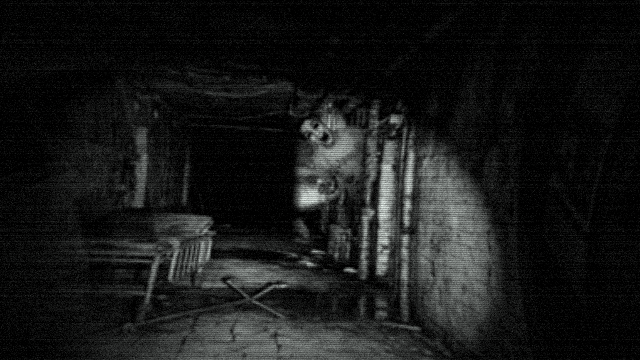
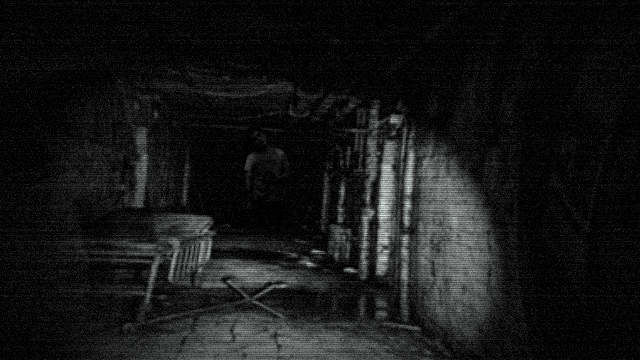
Sağ tık ve görsel sürükleme kapalı; küçük hatalar (ITS ME Pasta'yı gizlemiyor, karanlıkta ışık sesi yok, Arda kapı hatası); kamera görselleri yeniden: corr_pasta, autopsy_pasta

Changed region(s): [[0.375, 0.275, 0.5625, 0.6722], [0.5312, 0.6111, 0.5625, 0.6417]]

diff --git a/game.js b/game.js
@@ -334,11 +334,11 @@ function render() {
   else if (g.pasta.stage === 2) corr = 'img/corr/pasta2.png';
   else if (g.pasta.stage === 1) corr = 'img/corr/pasta1.png';
   if (g.sultan.phase === 'here') corr = 'img/corr/sultan.png';
-  if (itsmeCorrUntil > g.t) corr = 'img/itsme_photo.png';
+  if (itsmeCorrUntil > g.t && g.pasta.stage === 0) corr = 'img/itsme_photo.png'; // Pasta gelirken gizlemesin
   setSrc($('corrImg'), corr);
   setSrc($('dwImg'), g.avukat.at ? 'img/doorway/avukat.png' : 'img/doorway/empty.png');
   setSrc($('ventImg'), g.sahil.stage === 3 ? 'img/vent/sahil.png' : 'img/vent/empty.png');
-  const corrVar = g.sultan.phase === 'here' ? 'corr_sultan' : !d.flash ? null : itsmeCorrUntil > g.t ? 'corr_itsme' : g.pasta.stage ? 'corr_pasta' + g.pasta.stage : 'corr_lit';
+  const corrVar = g.sultan.phase === 'here' ? 'corr_sultan' : !d.flash ? null : itsmeCorrUntil > g.t && !g.pasta.stage ? 'corr_itsme' : g.pasta.stage ? 'corr_pasta' + g.pasta.stage : 'corr_lit';
   useVar('corr', corrVar);
   // kapalı kapı ayrı katman (#vDoorS): çelik kepenk, CSS ile tavandan kayar
   $('game').classList.toggle('vdoorc', haveVar.has('door_shutter'));
@@ -651,7 +651,7 @@ document.querySelectorAll('#map button').forEach(b => b.onclick = () => selCam(b
 
 // ---------- kontroller ----------
 function hold(el, key) {
-  const on = e => { e.preventDefault(); if (G && !G.over) { ui[key] = true; if (key === 'flash') snd('flashClick'); if (key === 'reboot') snd('reboot'); if (key === 'lightL' || key === 'ventLight') snd('light', true, key === 'lightL' ? -1 : 1); } };
+  const on = e => { e.preventDefault(); if (G && !G.over && !G.dark) { ui[key] = true; if (key === 'flash') snd('flashClick'); if (key === 'reboot') snd('reboot'); if (key === 'lightL' || key === 'ventLight') snd('light', true, key === 'lightL' ? -1 : 1); } };
   const off = () => { if (ui[key]) { ui[key] = false; if (key !== 'flash' && key !== 'cooling' && key !== 'reboot') snd('light', false); } };
   el.addEventListener('pointerdown', on); el.addEventListener('pointerup', off); el.addEventListener('pointerleave', off); el.addEventListener('pointercancel', off);
 }
@@ -669,7 +669,7 @@ const HOLD_KEYS = { f: 'flash', a: 'lightL', v: 'ventLight', c: 'cooling' };
 addEventListener('keydown', e => {
   if (!G || G.over || !$('game').classList.contains('on')) return;
   const k = e.key.toLowerCase();
-  if (HOLD_KEYS[k]) { if (!e.repeat) { ui[HOLD_KEYS[k]] = true; if (k === 'f') snd('flashClick'); if (k === 'a' || k === 'v') snd('light', true, k === 'a' ? -1 : 1); } return; }
+  if (HOLD_KEYS[k]) { if (!e.repeat && !G.dark) { ui[HOLD_KEYS[k]] = true; if (k === 'f') snd('flashClick'); if (k === 'a' || k === 'v') snd('light', true, k === 'a' ? -1 : 1); } return; }
   if (e.repeat) return;
   if (k === 'q') $('bDoor').onclick();
   if (k === ' ' || k === 'tab') { e.preventDefault(); toggleMonitor(); }
@@ -761,6 +761,10 @@ $('splash').onclick = () => { if (!ready) return; A.init(); try { A.playMenuMusi
 })();
 const unlock = () => { try { A.init(); } catch (e) { } removeEventListener('pointerdown', unlock, true); removeEventListener('keydown', unlock, true); };
 addEventListener('pointerdown', unlock, true); addEventListener('keydown', unlock, true);
+
+// sağ tık menüsü ve görsel sürükleme kapalı
+addEventListener('contextmenu', e => e.preventDefault());
+addEventListener('dragstart', e => e.preventDefault());
 
 // test kancası
 window.__m5g = Object.assign(window.__m5g || {}, { startNight, get G() { return G; }, save: () => P, show });

diff --git a/index.html b/index.html
@@ -11,6 +11,7 @@
   :root{ --red:#b0101c; --bone:#cfd6d2; --dim:#7d8a88; --green:#7dff8a; --cold:#9fd8e6 }
   body > *:not(#stage):not(script){display:none !important}
   *{box-sizing:border-box; -webkit-tap-highlight-color:transparent; user-select:none}
+  img, canvas{-webkit-user-drag:none; user-drag:none}
   html,body{margin:0; height:100%; background:#000; overflow:hidden; font-family:'VT323',monospace; color:#fff}
   #stage{position:absolute; left:50%; top:50%; width:1280px; height:720px; transform-origin:center; background:#05080a; overflow:hidden}
   .screen{position:absolute; inset:0; display:none}
@@ -655,11 +656,11 @@
   <section id="custom" class="screen"><h2 class="pageT">CUSTOM NIGHT</h2><div id="ccards"></div><div id="cpresets"><button data-p="easy">KOLAY 5</button><button data-p="n6">GECE 6</button><button data-p="max">20/20</button></div><button class="back" id="bCusBack">← GERİ</button><button id="cStart">BAŞLAT ▶</button></section>
 </div>
 
-<script src="audio.js?v=20261107s"></script>
-<script src="core.js?v=20261107s"></script>
-<script src="nights.js?v=20261107s"></script>
-<script src="save.js?v=20261107s"></script>
+<script src="audio.js?v=20261107t"></script>
+<script src="core.js?v=20261107t"></script>
+<script src="nights.js?v=20261107t"></script>
+<script src="save.js?v=20261107t"></script>
 <script src="lore.js?v=2"></script>
-<script src="game.js?v=20261107s"></script>
+<script src="game.js?v=20261107t"></script>
 </body>
 </html>

diff --git a/core.js b/core.js
@@ -152,7 +152,7 @@
   INIT.avukat = () => ({ at: false, t: 0, knock: 0, tick: 0, pos: 'archive', knockSound: 0 });
   TICKS.push(function tickAvukat(G, dt) {
     const s = G.avukat;
-    G.pending.door = s.at && s.knock <= 0;
+    G.pending.door = s.at;   // kapıda bekliyor ya da vuruyor: kapı kapatmak gerçekten gerekli
     if (s.knock > 0) {
       s.knock -= dt; G.extraDrain += PARAMS.AVUKAT_DRAIN;
       s.knockSound -= dt;

diff --git a/tests/arda_itsme.test.js b/tests/arda_itsme.test.js
@@ -60,3 +60,9 @@ test('ITS ME fires once; crash variant ends the game as itsme', () => {
   run(H, 3);
   assert.ok(!H.over);
 });
+
+test('re-closing the door while the real Avukat is knocking is not an Arda mistake', () => {
+  const G = fakeGame('avukat'); G.avukat.at = true; G.avukat.knock = 5;
+  run(G, 0.2, { doorL: true }); run(G, 0.2); run(G, 0.2, { doorL: true });
+  assert.strictEqual(G.arda.mistakes, 0);
+});

diff --git a/tools/cam_composite.py b/tools/cam_composite.py
@@ -1,0 +1,45 @@
+"""Kamera görüntülerine karakter yerleştirir (CCTV görünümüyle).  Kullanım: python3 tools/cam_composite.py
+Karakter kesiti (saydam PNG) gri tonlanır, sahnenin parlaklık/kontrastına uydurulur, gölge + gren + hafif bulanıklık eklenir."""
+import numpy as np
+from pathlib import Path
+from PIL import Image, ImageFilter, ImageOps, ImageDraw, ImageEnhance
+
+ROOT = Path(__file__).resolve().parent.parent
+
+def place(bg, cut, cx, foot_y, height, light=1.0, blur=0.6):
+    bg = bg.convert('RGB'); W, H = bg.size
+    c = cut.copy(); s = height / c.height
+    c = c.resize((max(1, round(c.width * s)), round(height)), Image.LANCZOS)
+    rgb, a = c.convert('RGB'), c.split()[3]
+    g = ImageOps.grayscale(rgb)
+    # sahnenin o bölgesinin ton dağılımına uydur
+    x0, y0 = round(cx - c.width / 2), round(foot_y - c.height)
+    reg = np.asarray(ImageOps.grayscale(bg).crop((max(0, x0), max(0, y0), min(W, x0 + c.width), min(H, y0 + c.height))), float)
+    gv = np.asarray(g, float); m = np.asarray(a) > 128
+    tgt_mean, tgt_std = reg.mean() * 1.25 * light, max(18, reg.std() * 1.1)
+    gv = (gv - gv[m].mean()) / (gv[m].std() + 1e-6) * tgt_std + tgt_mean
+    gv += np.random.normal(0, 7, gv.shape)
+    g = Image.fromarray(np.clip(gv, 0, 255).astype(np.uint8)).filter(ImageFilter.GaussianBlur(blur))
+    # zemine temas gölgesi
+    sh = Image.new('L', (W, H), 0); d = ImageDraw.Draw(sh)
+    d.ellipse((cx - c.width * .45, foot_y - c.width * .09, cx + c.width * .45, foot_y + c.width * .09), fill=140)
+    sh = sh.filter(ImageFilter.GaussianBlur(c.width * .08))
+    out = Image.composite(Image.new('RGB', (W, H), (0, 0, 0)), bg, sh)
+    a = a.filter(ImageFilter.GaussianBlur(.7))
+    out.paste(Image.merge('RGB', (g, g, g)), (x0, y0), a)
+    return out
+
+def cctv(im):
+    """Arka planla aynı gren ve tarama çizgileri."""
+    a = np.asarray(im, float); a += np.random.normal(0, 6, a.shape[:2])[..., None]
+    a[::3] *= 0.9
+    return Image.fromarray(np.clip(a, 0, 255).astype(np.uint8))
+
+if __name__ == '__main__':
+    np.random.seed(5)
+    pasta = Image.open(ROOT / 'img/ref/cut_pasta.png').convert('RGBA')
+    bg = Image.open(ROOT / 'img/cam/corr.png')
+    cctv(place(bg, pasta, cx=262, foot_y=228, height=104, light=1.25)).save(ROOT / 'img/cam/corr_pasta.png')
+    bg = Image.open(ROOT / 'img/cam/autopsy.png')
+    cctv(place(bg, pasta, cx=212, foot_y=196, height=150, light=1.15)).save(ROOT / 'img/cam/autopsy_pasta.png')
+    print('img/cam/corr_pasta.png, img/cam/autopsy_pasta.png')
